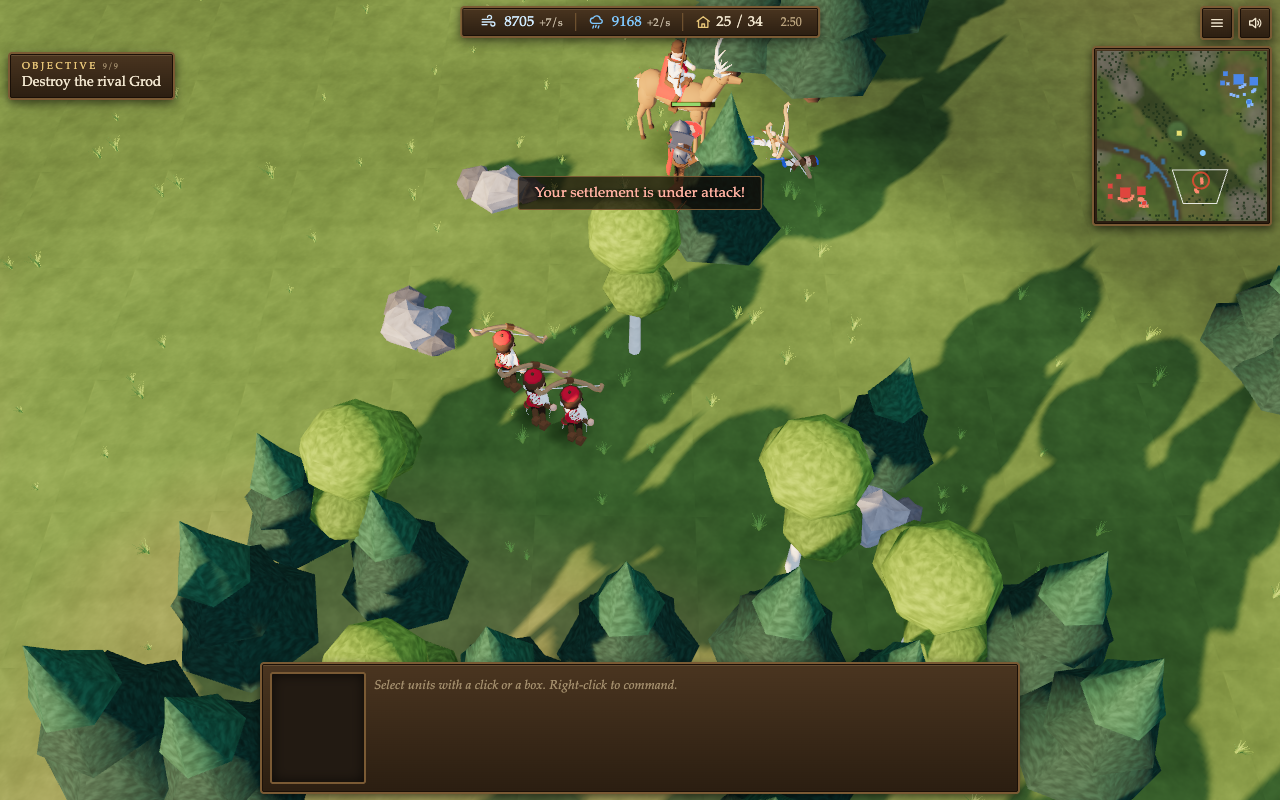
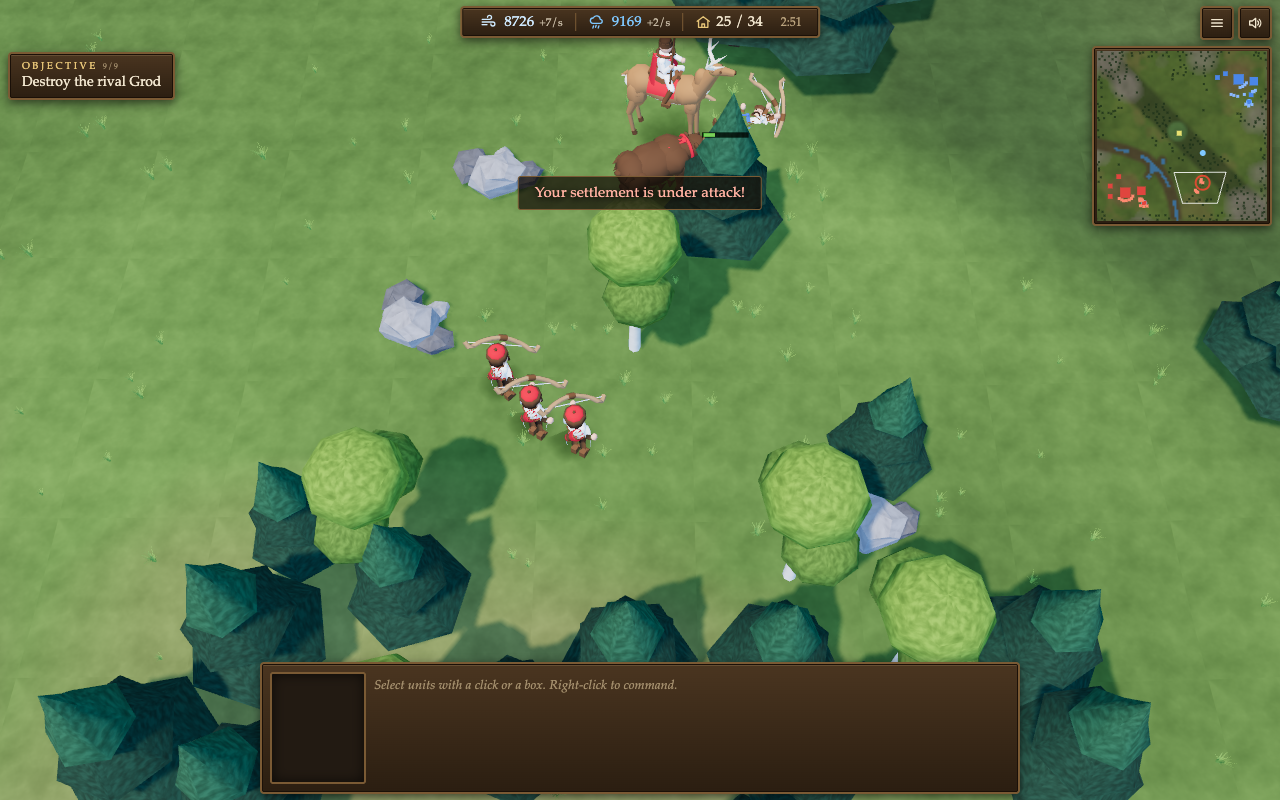
Critic round 2: high soft sun, lifted fill, steeper camera, denser raincloud

diff --git a/game/src/fx.js b/game/src/fx.js
@@ -154,7 +154,7 @@ export class FX {
     this.rainLife = new Float32Array(this.rainN);
     this.rainI = 0;
     const rg = new THREE.BufferGeometry(); rg.setAttribute('position', new THREE.BufferAttribute(this.rainPos, 3).setUsage(THREE.DynamicDrawUsage));
-    this.rain = new THREE.LineSegments(rg, new THREE.LineBasicMaterial({ color: 0xc8ecff, transparent: true, opacity: 0.85, depthWrite: false }));
+    this.rain = new THREE.LineSegments(rg, new THREE.LineBasicMaterial({ color: 0x9fd8ff, transparent: true, opacity: 0.85, depthWrite: false }));
     this.rainX = new Float32Array(this.rainN * 3);
     this.rain.frustumCulled = false; scene.add(this.rain);
     // arrows
@@ -203,7 +203,7 @@ export class FX {
     }
   }
   rainOver(x, y, z, rate = 1) {
-    for (let k = 0; k < rate * 2; k++) {
+    for (let k = 0; k < rate * 4; k++) {
       const i = this.rainI; this.rainI = (this.rainI + 1) % this.rainN;
       const px = x + (Math.random() - 0.5) * 3.4, pz = z + (Math.random() - 0.5) * 3.4, py = y + 5 + Math.random() * 2.5;
       this.rainPos.set([px, py, pz, px + 0.03, py - 0.8, pz], i * 6);
@@ -211,7 +211,7 @@ export class FX {
       this.rainX.set([px, y + 0.25, pz], i * 3);
     }
     // a small dark raincloud gathering over the shrine
-    if (Math.random() < 0.5) this.clouds.emit(x + (Math.random() - 0.5) * 3.6, y + 7.2 + Math.random() * 0.8, z + (Math.random() - 0.5) * 3.6, (Math.random() - 0.5) * 0.4, 0.05, (Math.random() - 0.5) * 0.4, 2.6, 3.2 + Math.random() * 1.6, 0.34, 0.38, 0.44, 0.75);
+    if (Math.random() < 0.8) this.clouds.emit(x + (Math.random() - 0.5) * 3.6, y + 7.2 + Math.random() * 0.8, z + (Math.random() - 0.5) * 3.6, (Math.random() - 0.5) * 0.4, 0.05, (Math.random() - 0.5) * 0.4, 2.6, 3.6 + Math.random() * 1.8, 0.24, 0.28, 0.34, 0.85);
   }
   spiritAura(x, y, z) { if (Math.random() < 0.5) this.glow.emit(x + (Math.random() - 0.5) * 3, y + Math.random() * 4.5, z + (Math.random() - 0.5) * 3, 0, 0.4 + Math.random() * 0.4, 0, 2, 0.35, 0.62, 0.94, 0.78, 0.8); }
 

diff --git a/game/src/main.js b/game/src/main.js
@@ -24,7 +24,7 @@ const renderer = new THREE.WebGLRenderer({ canvas, antialias: true, powerPrefere
 renderer.setSize(innerWidth, innerHeight, false);
 const scene = new THREE.Scene();
 const camera = new THREE.PerspectiveCamera(40, innerWidth / innerHeight, 2, 500);
-const rig = createRig(THREE, renderer, scene, { hour: 16.6, azimuth: 225, tier: 'auto', fogStart: 90, bloomStrength: 0.18, exposure: 0.74, fill: 1.7, bounceFlat: 5 });
+const rig = createRig(THREE, renderer, scene, { hour: 12.5, elevation: 60, azimuth: 215, tier: 'auto', fogStart: 90, bloomStrength: 0.16, exposure: 0.58, fill: 1.8, bounceFlat: 5 });
 const phone = rig.tier.name === 'phone';
 setSurfaceDefaults({ size: phone ? 256 : 512 });
 

diff --git a/game/src/ui.js b/game/src/ui.js
@@ -18,7 +18,7 @@ export class UI {
   constructor(game, camera, canvas, portraits) {
     this.g = game; this.cam = camera; this.canvas = canvas; this.portraits = portraits;
     this.target = new THREE.Vector2(LAYOUT.playerGrod[0] + 4, LAYOUT.playerGrod[1] + 4);
-    this.dist = 50; this.distGoal = 50; this.pitch = 0.96;
+    this.dist = 50; this.distGoal = 50; this.pitch = 1.06;
     this.keys = new Set(); this.mouse = { x: 0, y: 0, in: false, down: false, bx: 0, by: 0, button: 0 };
     this.mode = null;               // null | {type:'place', bt} | {type:'amove'}
     this.groups = {};
